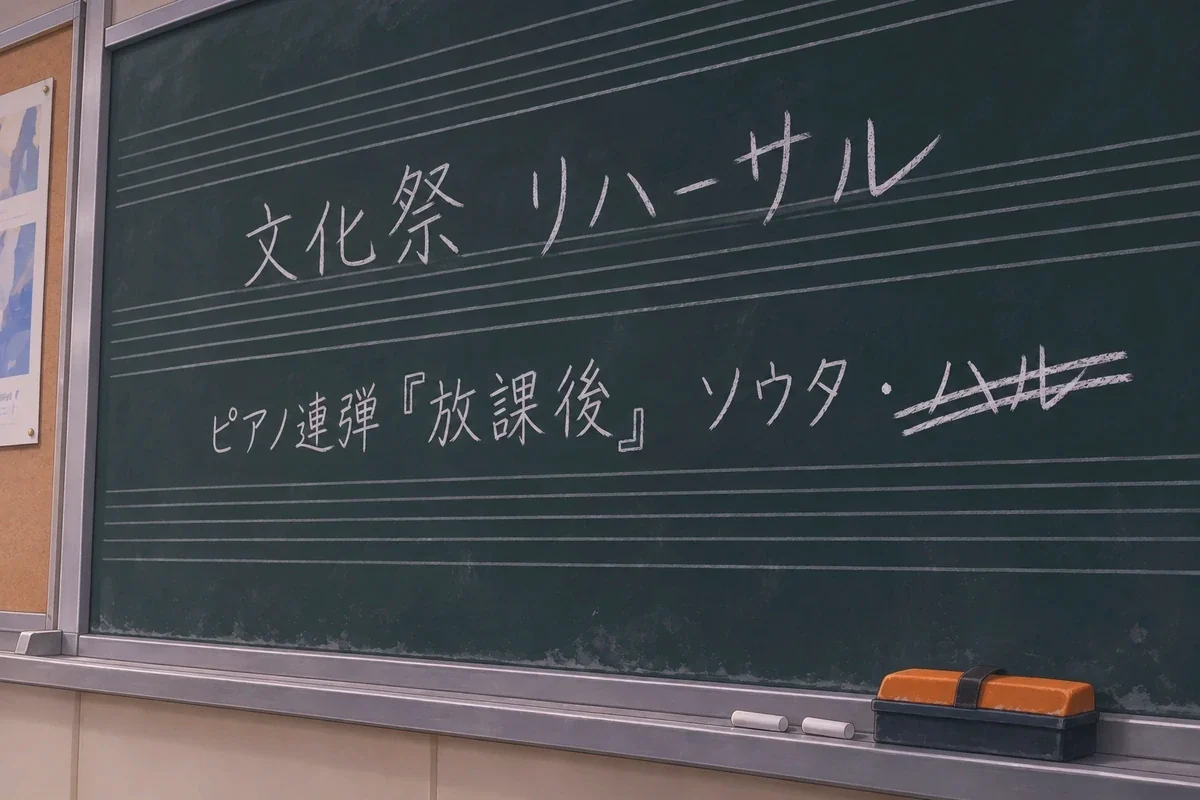
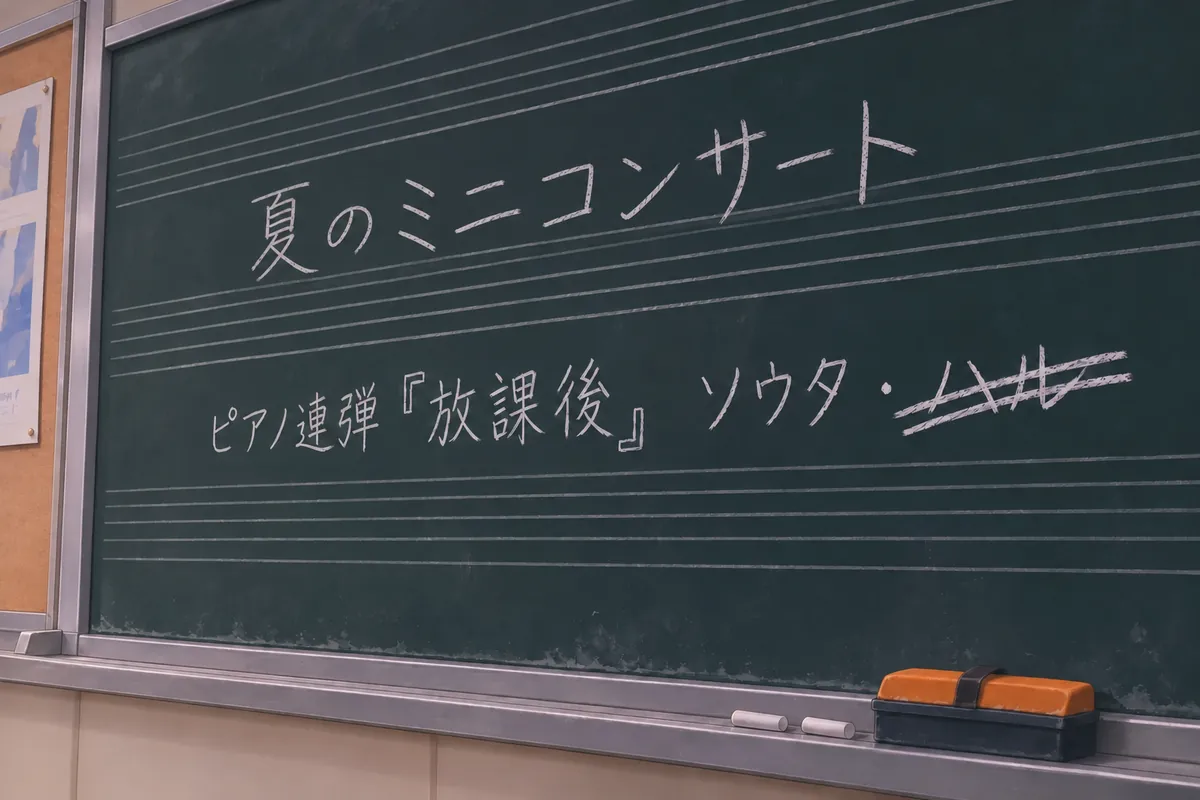
2章: 本番を7/10の夏のミニコンサート(音楽室)に、補習を7/7〜7/9に。ハルとのメッセージと黒板を見直し

diff --git a/index.html b/index.html
@@ -5448,17 +5448,14 @@
   function phoneView() {
     const msgs = [
       ['ハル', '明日のリハ テンポもうちょい上げよ！', '7/8 18:40', true],
-      ['ハル', 'そのほうが絶対かっこいい', '7/8 18:40', true],
-      ['me', 'は？ 今さら？', '18:41', true],
-      ['ハル', 'いけるって', '18:41', true],
-      ['ハル', 'ソウタならすぐ合わせられるし', '18:41', true],
+      // 2026-11-16 作者と見直し：ソウタは自分の補習のことをハルに持ち出さない（補習は告白で主人公にだけ）。ハルは昼に合わせて感じた理由を言い、電話で合わせようと気づかう
+      ['ハル', '昼に合わせたとき 速いほうが絶対いいって思った', '7/8 18:40', true],
       ['me', '無理', '18:42', true],
-      ['me', 'こっちは今週ずっと補習で、練習の時間とれてないんだって', '18:42', true],
-      ['ハル', 'あー赤点の補習か', '18:43', true],
+      ['me', '今から変えて合うわけないだろ', '18:42', true],
       ['ハル', 'じゃあ予備校終わったら電話で合わせよ', '18:43', true],
       ['ハル', '楽譜にテンポも書いとくから', '18:43', true],
       ['me', '変なことすんな', '18:44', true],
-      ['me', '本番前に変えて崩れたらどうすんだよ', '18:44', true],
+      ['me', '本番前に変えて崩れたらどうすんだよ', '18:44', true],   // 本番は 7/10（木）17:00 音楽室の「夏のミニコンサート」、7/9 はリハ（企画書07）
       ['ハル', 'ソウタいつも慎重すぎなんだって', '18:45', true],
       ['ハル', '攻めたほうが楽しいじゃん', '18:45', true],
       ['me', '楽しいとかじゃねえんだよ', '18:46', true],
@@ -5479,8 +5476,11 @@
       ['me', 'ごめん', '22:41', false],
       ['me', '言い過ぎた', '23:10', false],
       ['me', '起きてる？', '7/9 0:52', false],
-      ['me', 'なあ', '3:18', false],
-      ['me', '返事しろよ', '3:18', false],
+      ['me', '起きたら電話する', '3:18', false],   // ハルの「予備校終わったら電話で合わせよ」に重なる。この朝、電話をくれたのはハルの母だった
+      // 2026-11-16 作者の指示：「なあ」「返事しろよ」は事故を知った後へ。火曜の練習の前の夜（7/14 月）に、まだ来ると思いたくて送っている
+      ['me', 'なあ', '7/14 23:52', false],
+      ['me', '明日の練習、来るよな', '23:52', false],
+      ['me', '返事しろよ', '7/15 2:36', false],
     ];
     return `<div class="phone-wrap"><div class="phone"><div class="phone-head">ハル</div>
       ${msgs.map(([w, t, time, read], i) => {
@@ -5616,7 +5616,7 @@
       async board() {
         showCut('mci_board');
         if (!R.know.has('board')) {
-          await say(['黒板に、チョークの字。「文化祭 リハーサル」', 'その下に「ピアノ連弾『放課後』 ソウタ・ハル」。', '……「ハル」の名前にだけ、二本線が引かれている。']);
+          await say(['黒板に、チョークの字。「夏のミニコンサート」', 'その下に「ピアノ連弾『放課後』 ソウタ・ハル」。', '……「ハル」の名前にだけ、二本線が引かれている。']);
           R.know.add('board'); await tick();
         } else { const nw = !R.know.has('boardDoodle'); R.know.add('boardDoodle'); await say(['「ソウタ・ハル」。二本線の下で、ハルの名前はまだ読める。',
                           '黒板の端に、消し忘れた小さな落書きが残っていた。',
@@ -5709,7 +5709,7 @@
           await say(['譜面台の板のすき間に、破れた五線譜が挟まっている。']);
           R.taken.stand = true; await gotItem('frag2'); await tick();
         } else { const nw = !R.know.has('standMemo'); R.know.add('standMemo'); await say(['何も載っていない譜面台。',
-                          '板の裏にプリントが一枚テープで留めてある。「数学 補習　7/7〜7/11　放課後 16:00〜16:50」',
+                          '板の裏にプリントが一枚テープで留めてある。「数学 補習　7/7〜7/9　放課後 16:00〜16:50」',
                           '余白に、きっちりした鉛筆の字で書き足してある。「7/9 リハ 17:00〜　補習の後走る」',
                           '……補習が終わったら、走ってここへ来るつもりだったらしい。']); if (nw) await tick(); }
       },
@@ -5755,7 +5755,7 @@
         } else if (!R.know.has('intro2')) {
           R.know.add('intro2');
           await say(['丸めたプリントと、空のペットボトル。',
-                     'プリントのしわを伸ばすと、文化祭のプログラムに載せる紹介文の下書きだった。',
+                     'プリントのしわを伸ばすと、ミニコンサートのプログラムに載せる紹介文の下書きだった。',
                      '「相方のハルは、」……その先を何度も書き直している。「うるさい」「いつも走る」、どれも線で消してある。',
                      '最後に残っていたのは、小さな一行だけ。「ハルとじゃないと、弾けない曲です」',
                      // 同じ紙の裏：父さんに送るつもりで、送れなかった文
@@ -5825,7 +5825,7 @@
       await say([R.seen.has('lid') ? '答えられなかった。ソウタは鍵盤に目を落とした。' : '答えられなかった。ソウタは閉じた鍵盤の蓋に目を落とした。',
                  ['ソウタ', '……ハルとは、幼稚園のときから同じピアノ教室だった', 'down'],
                  ['ソウタ', '発表会は、いつも二人で連弾。先生が、息がぴったりだって', 'down'],
-                 ['ソウタ', '文化祭でも、弾くはずだった', 'sad'],
+                 ['ソウタ', '先週のコンサートでも、弾くはずだった', 'sad'],   // 7/10（木）音楽室の夏のミニコンサート（企画書07）
                  'ソウタは長いピアノ椅子の右端に座っている。左半分だけが、ぽっかり空いていた。']);
       await line(['ソウタ', '……もう弾けない。ハルがいないから', 'sad'], false);
       let a = await ask([['ハルくんって、どんなふうに弾く人だったの？', 'yori'], ['……大切な人だったんだね', 'seiron'], ['……少し、ピアノから離れてみたら？ 楽になるかもしれないよ', 'oitsu']], 1);
@@ -5848,9 +5848,9 @@
 
       // 2段目
       await say([['ソウタ', '……ケンカしたんだ。リハーサルの前の日', 'down'],
-                 ['ソウタ', '俺、期末で数学赤点取って。その週は放課後に補習があって、練習の時間が削られてた', 'down'],
+                 ['ソウタ', '俺、期末で数学赤点取って。本番の週に補習が入って、火曜の練習がつぶれたんだ', 'down'],
                  ['ソウタ', 'あの日は、この前の模試の結果が返ってきて。第一志望、E判定だった', 'sad'],
-                 ['ソウタ', '家に帰ったら、父さんに言われた。『文化祭が終わったら、ピアノはやめろ』って', 'sad'],
+                 ['ソウタ', '家に帰ったら、父さんに言われた。『コンサートが終わったら、ピアノはやめろ』って', 'sad'],
                  ['ソウタ', '『ハルくんは予備校に通いながら、ピアノも続けてるだろ。お前は何をやってるんだ』……って', 'down'],
                  ['ソウタ', '何も言い返せなかった', 'down'],
                  ...(R.know.has('pickup')
